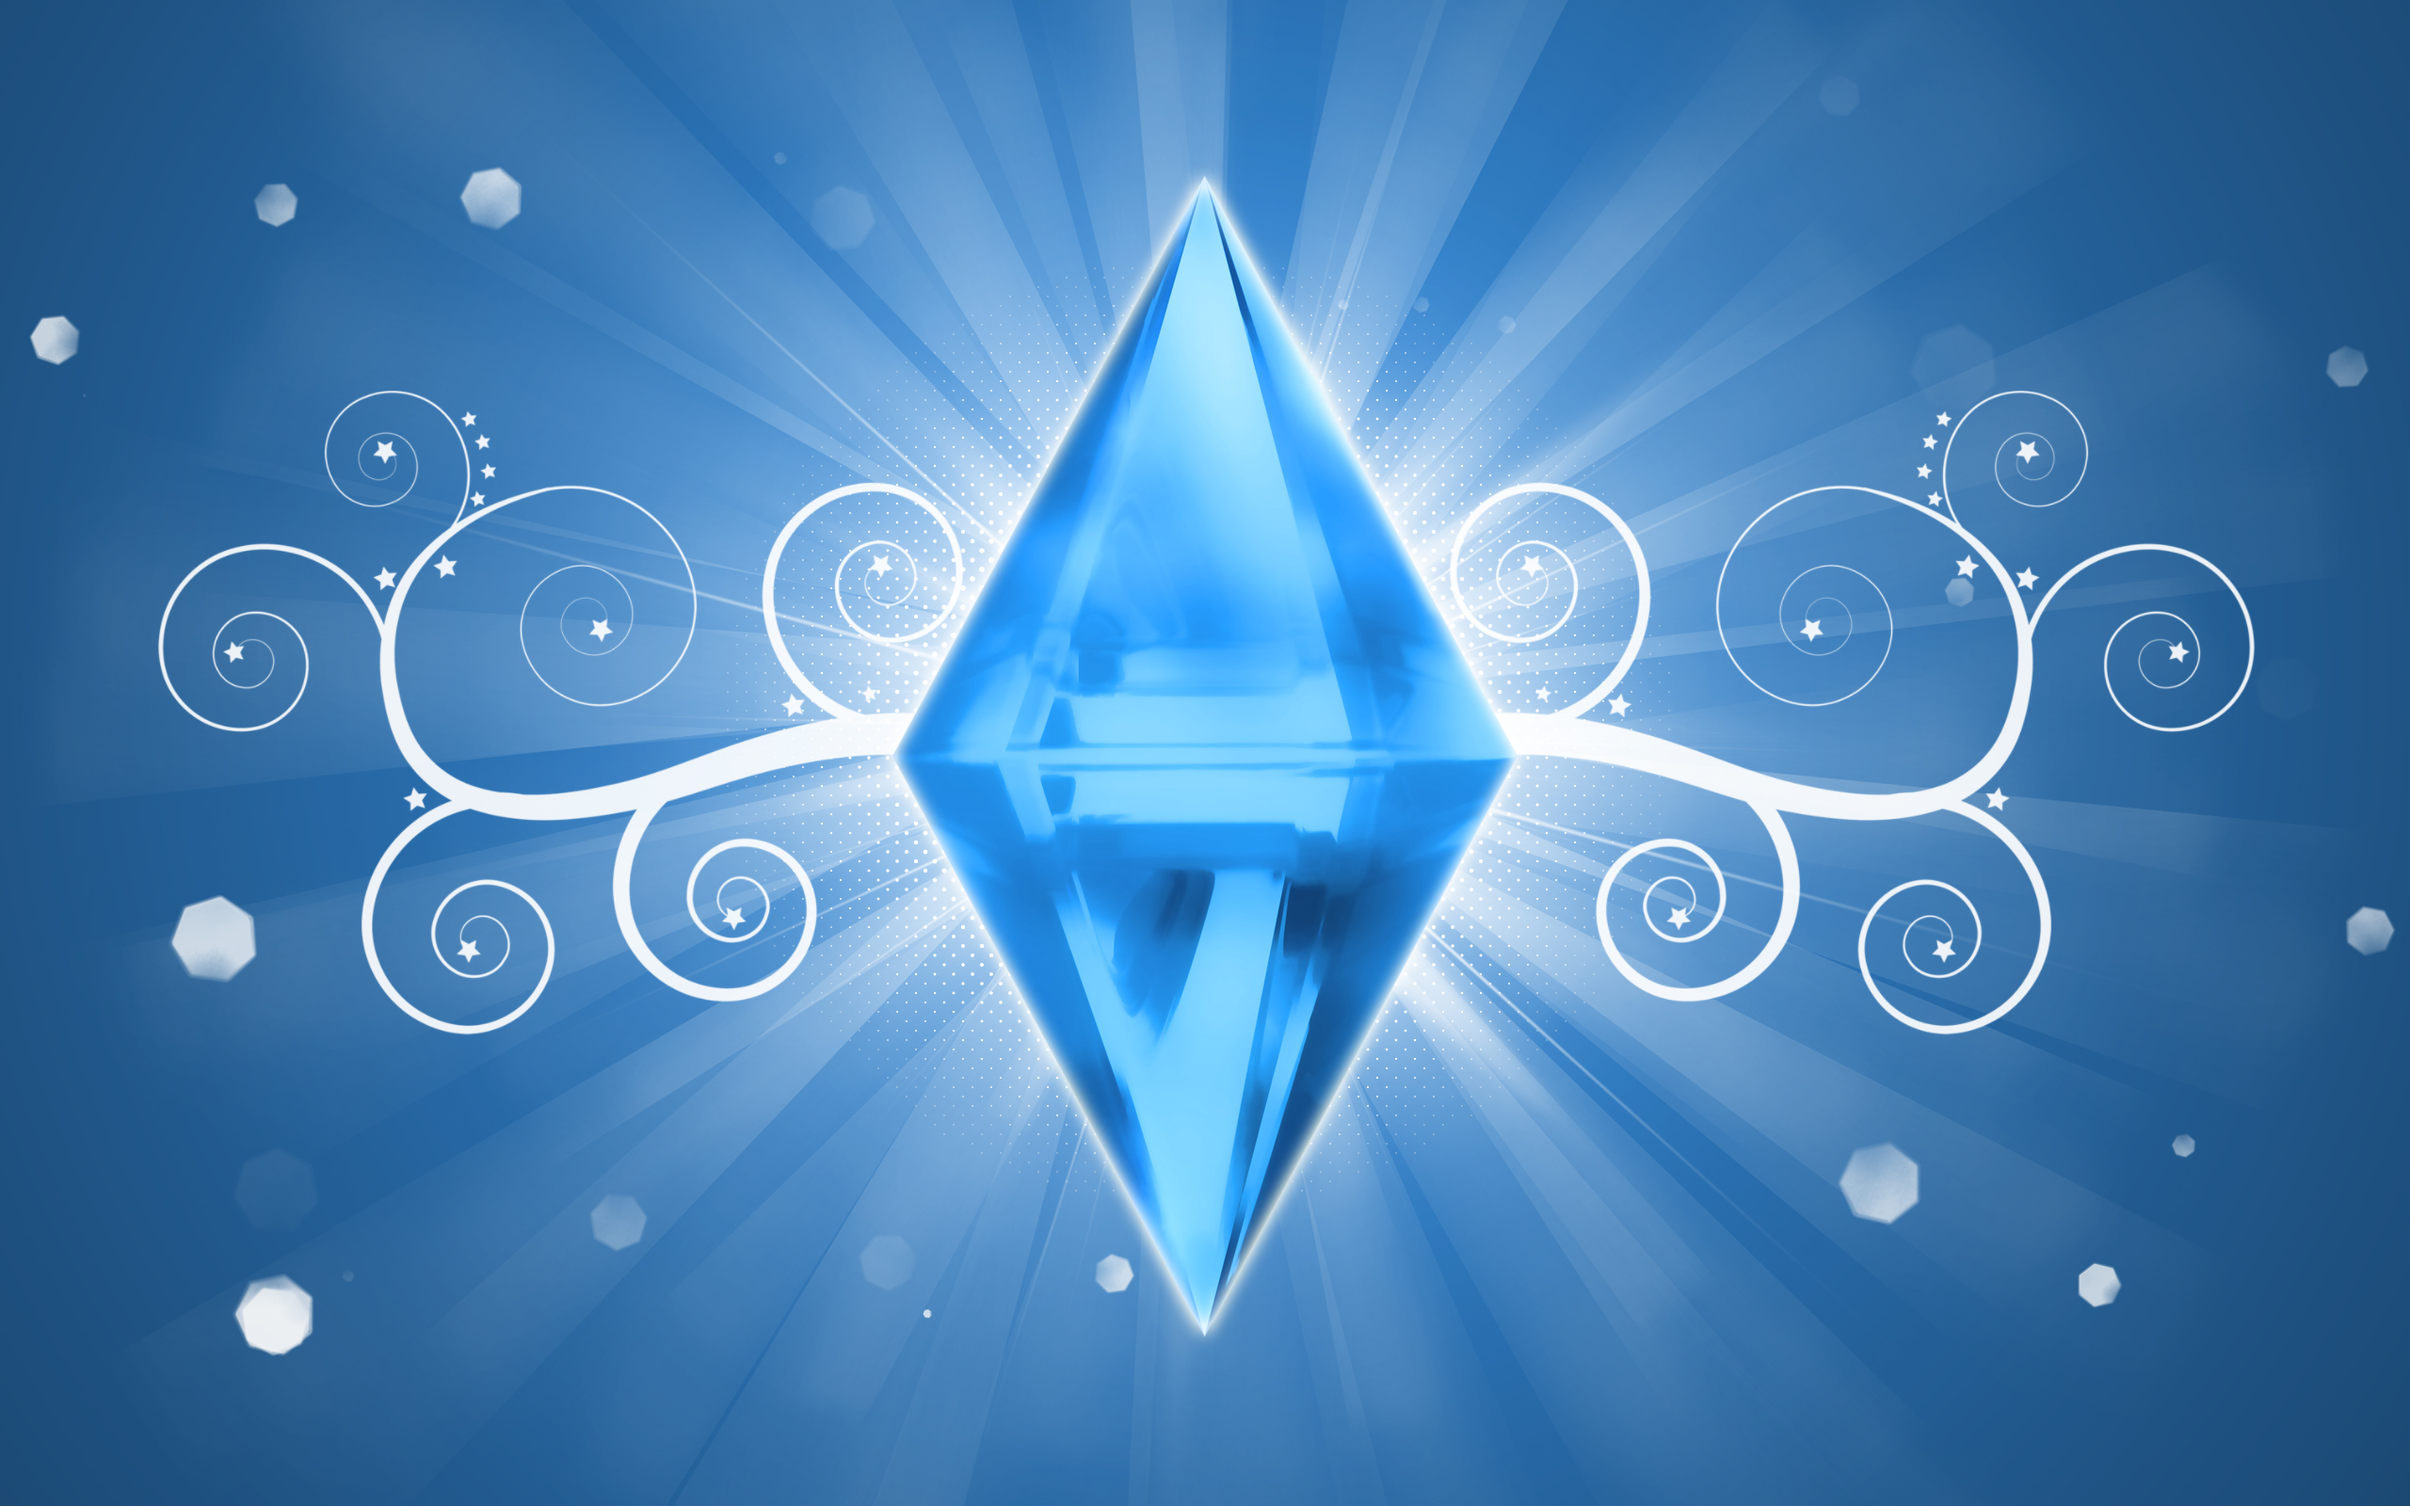
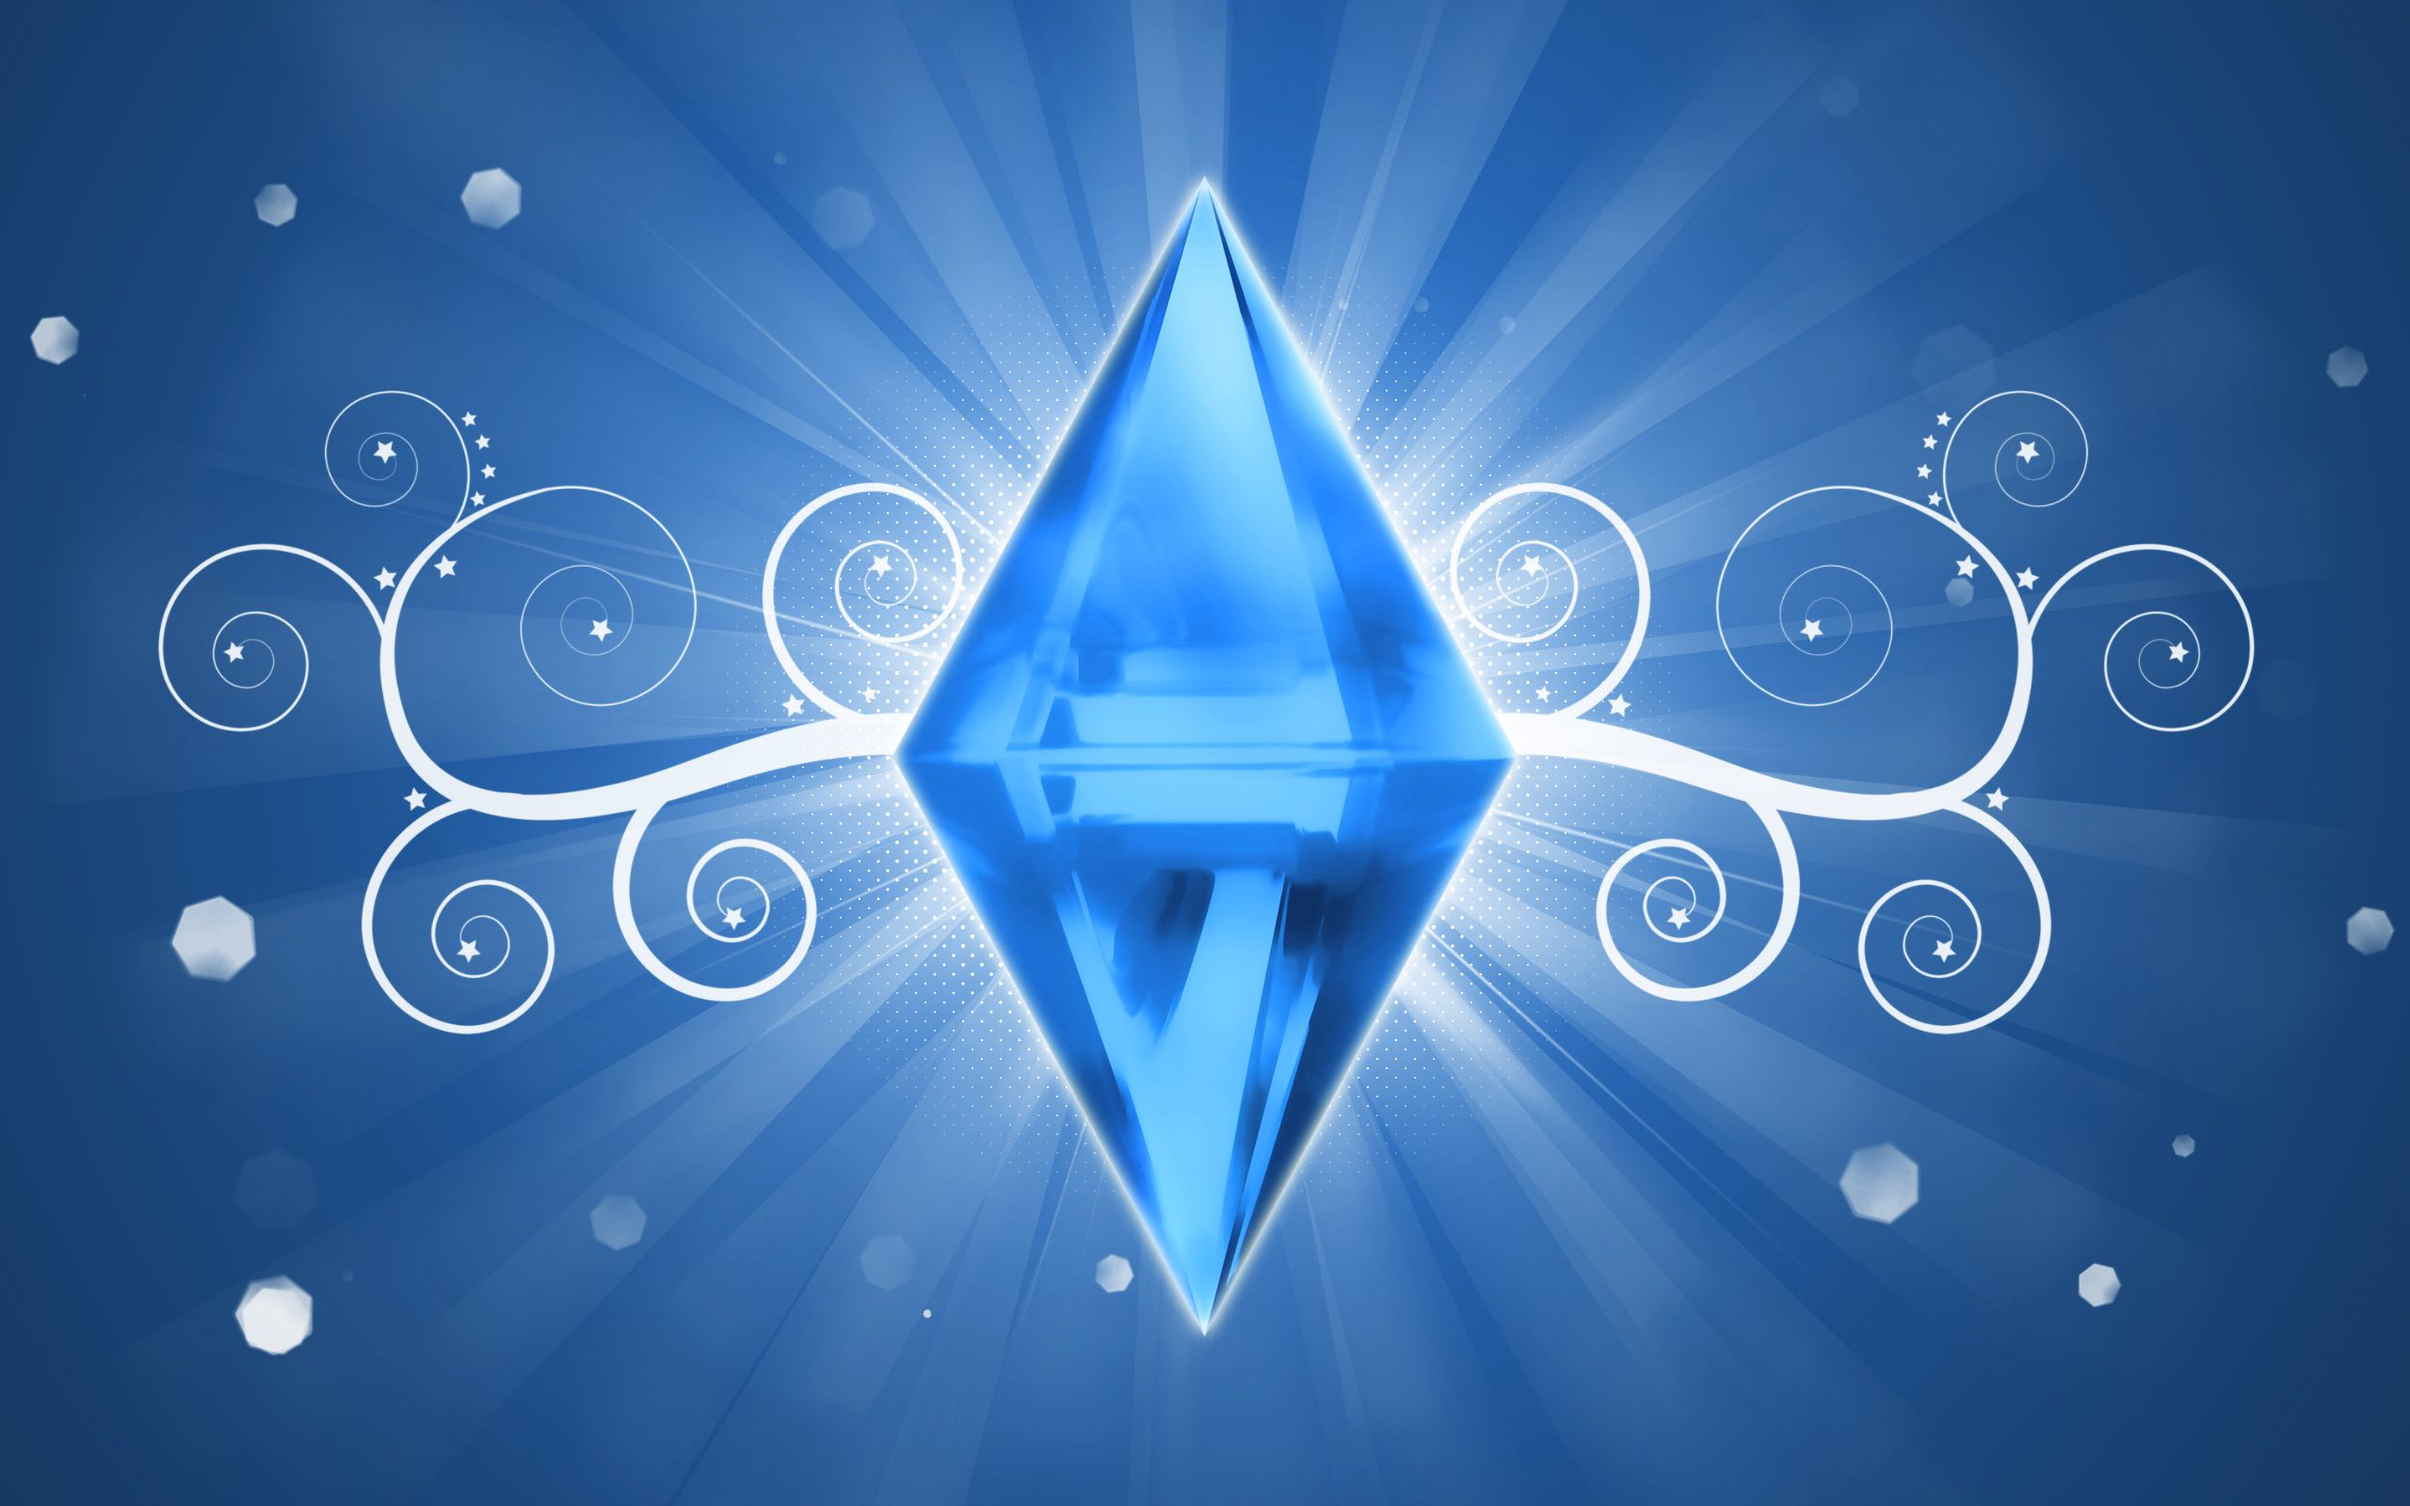
Reduce file size of background images

diff --git a/config/initializers/games/the_sims_3.rb b/config/initializers/games/the_sims_3.rb
@@ -473,7 +473,7 @@ GAMES[:the_sims_3] = {
     },
     title: 'The Sims 3',
     generator_title: 'Sim',
-    background: 'sims3.png',
+    background: 'sims3.jpg',
     added: Date.strptime('20150424',"%Y%m%d"),
     last_updated: Date.strptime('20150424',"%Y%m%d"),
     columns: sim
